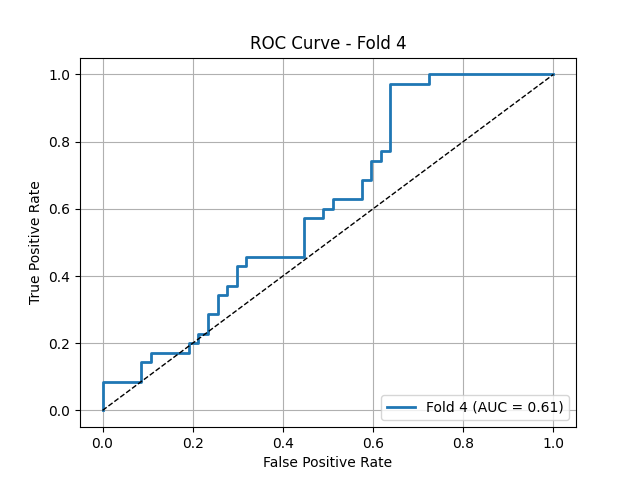
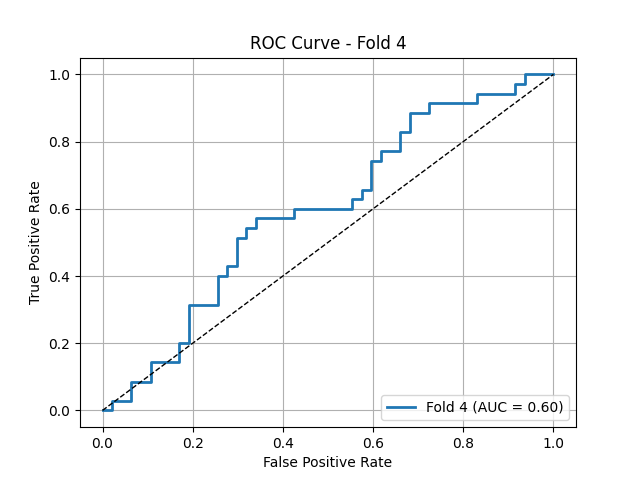
four seperate and then combined into one pred

diff --git a/multi_head_models.py b/multi_head_models.py
@@ -272,27 +272,23 @@ class BinaryClassification(pl.LightningModule):
         self.boundary_encoder = MyEncoder()
         self.center_encoder = MyEncoder()
         
-        self.output_size = 1
+        self.output_size = 5
         if radiomics:  
             self.linear_radiomics = FCNetwork(input_size= radiomics_dim, hidden_sizes=[128, 64, 64], output_size= 32)  
             self.linear_radiomics_tail = FCNetwork(input_size= 32, hidden_sizes=[32, 32, 16], output_size= self.output_size)  
             self.linear = FCNetwork(input_size= self.input_size*2+32, hidden_sizes=self.hidden_sizes, output_size= self.output_size)
             self.linear_trainable = FCNetwork(input_size= self.input_size, hidden_sizes=self.hidden_sizes2, output_size= self.output_size)  
         else:
-            self.linear = FCNetwork(input_size= self.input_size*2, hidden_sizes=self.hidden_sizes, output_size= self.output_size)
+            self.linear = FCNetwork(input_size= self.input_size, hidden_sizes=self.hidden_sizes, output_size= self.output_size)
             self.linear_trainable = FCNetwork(input_size= self.input_size, hidden_sizes=self.hidden_sizes2, output_size= self.output_size)   
             self.linear_boundary = FCNetwork(input_size= self.input_size, hidden_sizes=self.hidden_sizes, output_size= self.output_size)
             self.linear_center = FCNetwork(input_size= self.input_size, hidden_sizes=self.hidden_sizes, output_size= self.output_size)  
 
-        self.final_layer = FCNetwork(input_size= 4, hidden_sizes=[8, 12, 5], output_size= 1)
+        self.final_layer = FCNetwork(input_size= 4*self.output_size, hidden_sizes=[8, 12, 5], output_size= 1)
 
 
-        self.loss_fn =  AsymmetricLoss(
-                    gamma_pos=0.0,     # do not suppress learning from malignant (minority)
-                    gamma_neg=4.0,     # suppress easy benign (majority) examples
-                    clip=0.05          # clip predictions near 0 or 1 to avoid overconfidence
-                )# AsymmetricLoss() # nn.BCEWithLogitsLoss()  # More stable than 
-        self.loss_fn2 = FocalLoss()
+        self.loss_fn = FocalLoss() 
+        self.loss_fn2 = nn.BCEWithLogitsLoss(pos_weight=torch.tensor([3.0])) #FocalLoss()
 
         self.accuracy_metric = BinaryAccuracy()  # Accuracy metric using TorchMetrics
         self.auc_metric = torchmetrics.AUROC(task="binary")
@@ -346,11 +342,12 @@ class BinaryClassification(pl.LightningModule):
     def _common_step(self, batch, batch_idx):
         if len(batch) == 2: 
             x, y = batch 
+            y2 = y.unsqueeze(-1).repeat((1, self.output_size))
             scores, scores_tail = self.forward(x)  
-            loss = self.loss_fn(scores, y.float())*0.3 + self.loss_fn(scores_tail[0], y.float()) + \
-                        self.loss_fn(scores_tail[1], y.float()) + self.loss_fn(scores_tail[2], y.float()) + self.loss_fn(scores_tail[3], y.float()) +\
-                        self.loss_fn2(scores, y.float())*0.3 + self.loss_fn2(scores_tail[0], y.float()) + \
-                        self.loss_fn2(scores_tail[1], y.float()) + self.loss_fn2(scores_tail[2], y.float()) + self.loss_fn2(scores_tail[3], y.float())
+            loss = self.loss_fn(scores, y.float()) + self.loss_fn(scores_tail[0], y2.float())*0.5 + \
+                        self.loss_fn(scores_tail[1], y2.float()) + self.loss_fn(scores_tail[2], y2.float()) + self.loss_fn(scores_tail[3], y2.float()) +\
+                        self.loss_fn2(scores, y.float()) + self.loss_fn2(scores_tail[0], y2.float())*0.5 + \
+                        self.loss_fn2(scores_tail[1], y2.float()) + self.loss_fn2(scores_tail[2], y2.float()) + self.loss_fn2(scores_tail[3], y2.float())
             
         else: 
             x, x2_rad,  y = batch
@@ -374,15 +371,12 @@ class BinaryClassification(pl.LightningModule):
         x_center = self.center_encoder(x*(x_sdf<.1)) 
 
 
-        x = torch.cat((x1, x2), dim=1)  # Concatenate the outputs from both encoders
-        x = x.reshape(x.shape[0], -1)
-
         if x2_radiomics is not None:
             x2_radiomics = self.linear_radiomics(x2_radiomics)
             x = torch.cat((x, x2_radiomics), dim=1)
             return self.linear(x).squeeze(), (self.linear_trainable(x2.reshape(x.shape[0], -1)).squeeze() , self.linear_radiomics_tail(x2_radiomics).squeeze())
         else:   
-            x1 = self.linear(x)
+            x1 = self.linear(x1.reshape(x.shape[0], -1))
             x2 = self.linear_trainable(x2.reshape(x.shape[0], -1))
             x3 = self.linear_boundary(x_boundary.reshape(x.shape[0], -1))
             x4 = self.linear_center(x_center.reshape(x.shape[0], -1)) 

diff --git a/train_washu2_classifier_multihead.py b/train_washu2_classifier_multihead.py
@@ -41,7 +41,7 @@ all_tprs = []
 all_aucs = []
 
 project_title = "Ovarian Cancer Classification 4"
-Experiment_Group = f"Exp8:Multihead_model_0.3_pre_encoder_{commit_log}"
+Experiment_Group = f"Exp8:Multihead_model_.5_pre_encoder_{commit_log}"
 train_config = {
         "k_fold": k_fold,
         "batch_size": batch_size,
